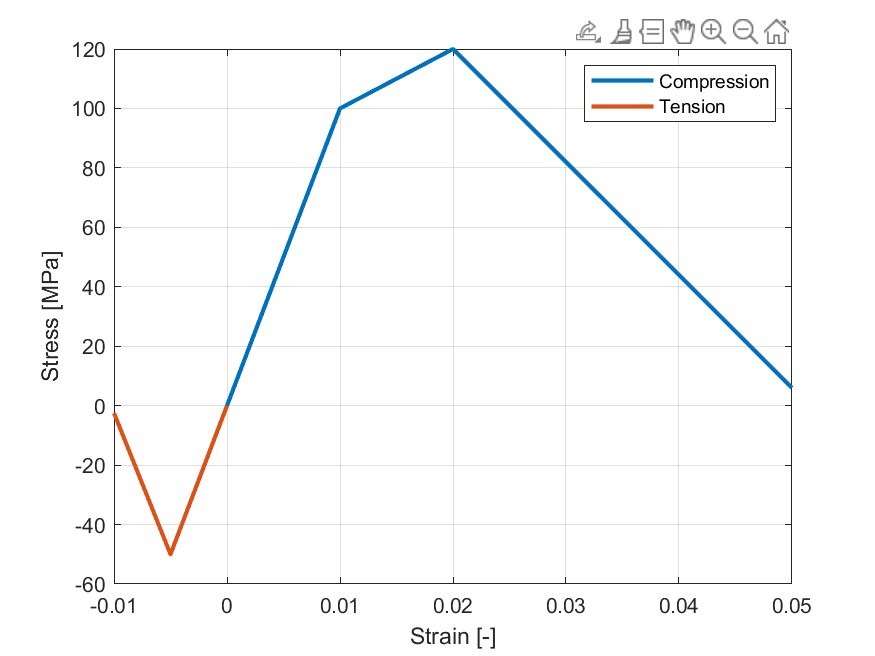
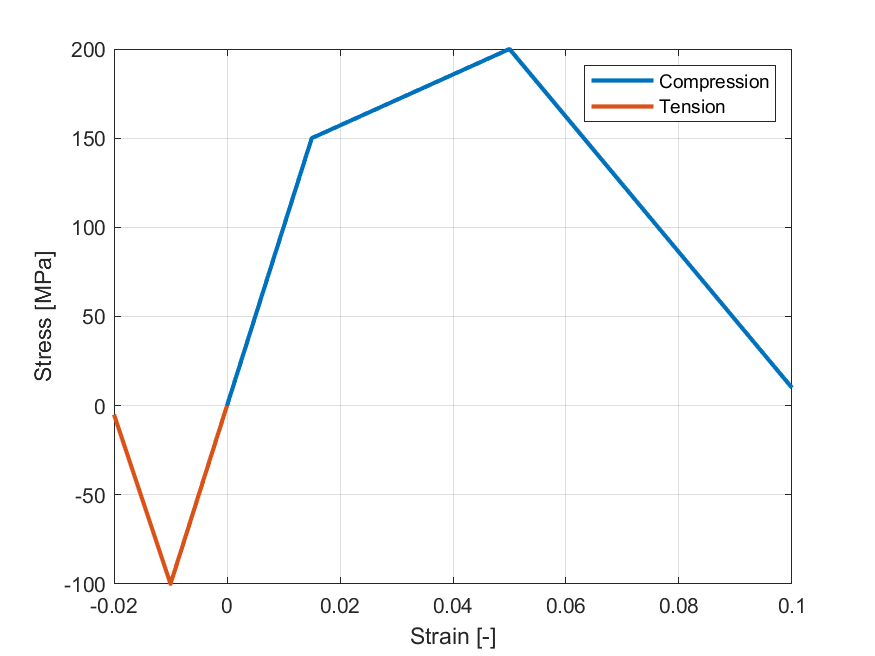
material properties update

diff --git a/voxelMesh/abaInpData.m b/voxelMesh/abaInpData.m
@@ -12,28 +12,28 @@ if ~isfield(abaData.Bone.MAT, 'comp')
     abaData.Bone.MAT.comp = struct();
 end
 if ~isfield(abaData.Bone.MAT.comp, 'sigmaY')
-    abaData.Bone.MAT.comp.sigmaY = 100;         % compression yield stress [MPa]
+    abaData.Bone.MAT.comp.sigmaY = 150;         % compression yield stress [MPa]
 end
 if ~isfield(abaData.Bone.MAT.comp, 'sigmaUYD')
-    abaData.Bone.MAT.comp.sigmaUYD = 20;        % compression ultimate stress [MPa]
+    abaData.Bone.MAT.comp.sigmaUYD = 50;        % compression ultimate stress [MPa]
 end
 abaData.Bone.MAT.comp.sigmaU = abaData.Bone.MAT.comp.sigmaY + abaData.Bone.MAT.comp.sigmaUYD;
 if ~isfield(abaData.Bone.MAT.comp, 'epsilonU')
-    abaData.Bone.MAT.comp.epsilonU = 0.02;      % compression ultimate strain [-]
+    abaData.Bone.MAT.comp.epsilonU = 0.05;      % compression ultimate strain [-]
 end
 abaData.Bone.MAT.comp.sigmaF = abaData.Bone.MAT.comp.sigmaU * 0.05;   % compression failure(deletion) stress [MPa]
 if ~isfield(abaData.Bone.MAT.comp, 'epsilonF')
-    abaData.Bone.MAT.comp.epsilonF = 0.05;      % compression failure (deletion) strain [-]
+    abaData.Bone.MAT.comp.epsilonF = 0.10;      % compression failure (deletion) strain [-]
 end
 if ~isfield(abaData.Bone.MAT, 'tens')
     abaData.Bone.MAT.tens = struct();
 end
 if ~isfield(abaData.Bone.MAT.tens, 'sigmaY')
-    abaData.Bone.MAT.tens.sigmaY = 50;          % tension yield stress [MPa]
+    abaData.Bone.MAT.tens.sigmaY = 100;          % tension yield stress [MPa]
 end
 abaData.Bone.MAT.tens.sigmaF = abaData.Bone.MAT.tens.sigmaY * 0.05;     % tension failure(deletion) stress [MPa]
 if ~isfield(abaData.Bone.MAT.tens, 'epsilonF')
-    abaData.Bone.MAT.tens.epsilonF = 0.01;      % tension failure (deletion) strain [-]
+    abaData.Bone.MAT.tens.epsilonF = 0.02;      % tension failure (deletion) strain [-]
 end
 % create CDP tables [strain, stress, damage, elastic strain, inelastic strain, plastic strain]
 abaData.Bone.MAT = funCDPGen(abaData.Bone.MAT);
